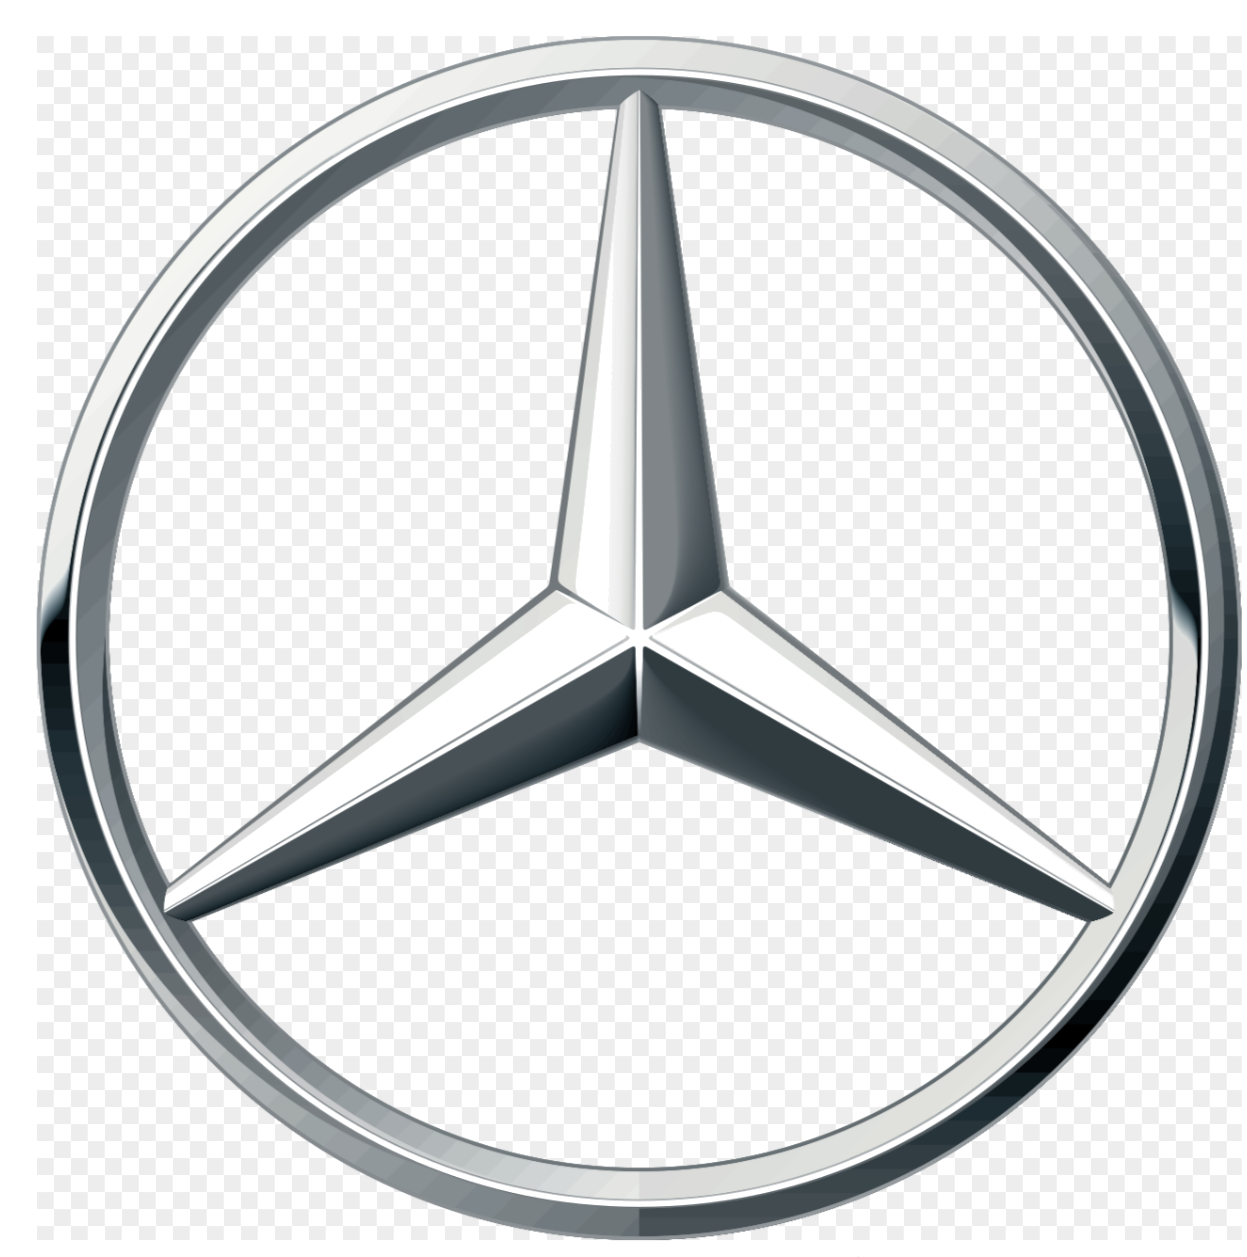
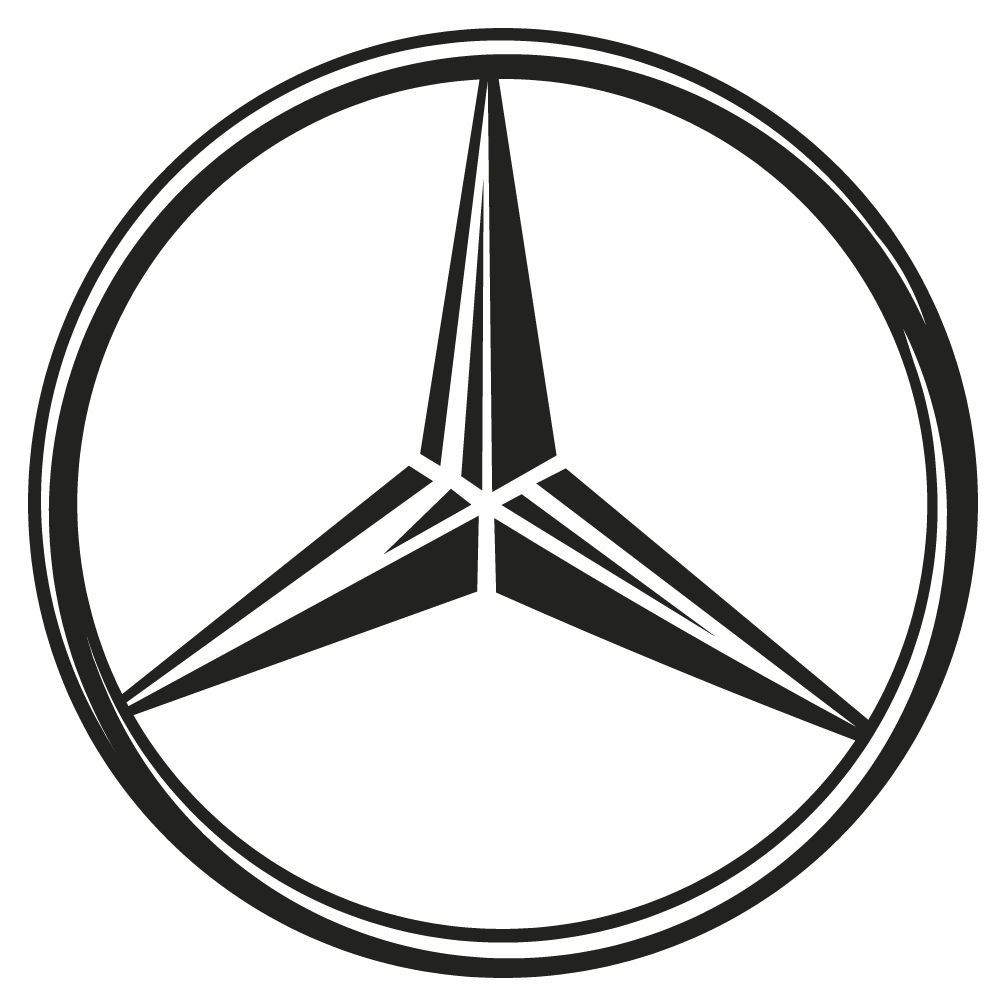
Usar símbolos oficiais reais para Mercedes-Benz, BYD, Jaguar, Mustang e Cupra
- Substitui os emblemas genéricos de iniciais (Jaguar, Cupra, Mustang) e a
  versão anterior da Mercedes-Benz pelos símbolos oficiais fornecidos,
  recortados (sem texto) e aplicados como máscara CSS currentColor —
  mantém tudo com a mesma cor/estilo uniforme das restantes marcas.
- Jaguar: recorta apenas o felino (sem a palavra "JAGUAR"); engrossa
  ligeiramente o traço fino do contorno para manter legibilidade no
  tamanho pequeno do filtro.
- Mustang: recorta apenas o cavalo + arco (sem o texto "MUSTANG" nem a
  legenda de formatos de ficheiro do lado da imagem original).
- Aumenta ligeiramente o tamanho dos ícones no filtro de marcas
  (16px → 20px) para melhorar a legibilidade dos símbolos mais finos.

Claude-Session: https://claude.ai/code/session_01RBfWJj3LGtyzrDsbSkQSH1

Changed region(s): [[0.0308, 0.0308, 1.0, 0.9861]]

diff --git a/src/components/BrandIcon.jsx b/src/components/BrandIcon.jsx
@@ -17,21 +17,16 @@ import {
   siMini,
 } from "simple-icons";
 
-// Mercedes-Benz e BYD não estão disponíveis na biblioteca Simple Icons —
-// usamos o símbolo oficial de cada uma (imagem fornecida à parte), recortado
-// como máscara para herdar a mesma cor (currentColor) dos restantes
-// símbolos e manter tudo visualmente uniforme.
+// Estas marcas não estão disponíveis na biblioteca Simple Icons — usamos o
+// símbolo oficial de cada uma (imagem fornecida à parte), recortado como
+// máscara para herdar a mesma cor (currentColor) dos restantes símbolos e
+// manter tudo visualmente uniforme.
 const MASK_ICONS = {
   "Mercedes-Benz": "/brands/mercedes-benz.png",
   BYD: "/brands/byd.png",
-};
-
-// Estas marcas também não têm símbolo disponível — nesses casos usamos um
-// pequeno emblema genérico com as iniciais da marca.
-const INITIALS = {
-  Jaguar: "JAG",
-  Cupra: "CUP",
-  Mustang: "GT",
+  Jaguar: "/brands/jaguar.png",
+  Cupra: "/brands/cupra.png",
+  Mustang: "/brands/mustang.png",
 };
 
 const ICONS = {
@@ -87,33 +82,6 @@ export default function BrandIcon({ marca, className = "h-4 w-4" }) {
       >
         <title>{icon.title}</title>
         <path d={icon.path} />
-      </svg>
-    );
-  }
-
-  const initials = INITIALS[marca];
-  if (initials) {
-    return (
-      <svg
-        role="img"
-        viewBox="0 0 24 24"
-        className={className}
-        aria-hidden="true"
-      >
-        <title>{marca}</title>
-        <circle cx="12" cy="12" r="11" fill="none" stroke="currentColor" strokeWidth="1.5" />
-        <text
-          x="12"
-          y="12"
-          textAnchor="middle"
-          dominantBaseline="central"
-          fill="currentColor"
-          fontSize={initials.length > 2 ? "7" : "9"}
-          fontFamily="Inter, sans-serif"
-          fontWeight="600"
-        >
-          {initials}
-        </text>
       </svg>
     );
   }

diff --git a/src/pages/Home.jsx b/src/pages/Home.jsx
@@ -79,7 +79,7 @@ export default function Home() {
                     : "border-paper-line text-paper-muted hover:border-paper-text hover:text-paper-text"
                 }`}
               >
-                <BrandIcon marca={m} className="h-4 w-4 flex-shrink-0" />
+                <BrandIcon marca={m} className="h-5 w-5 flex-shrink-0" />
                 {m}
               </button>
             ))}
